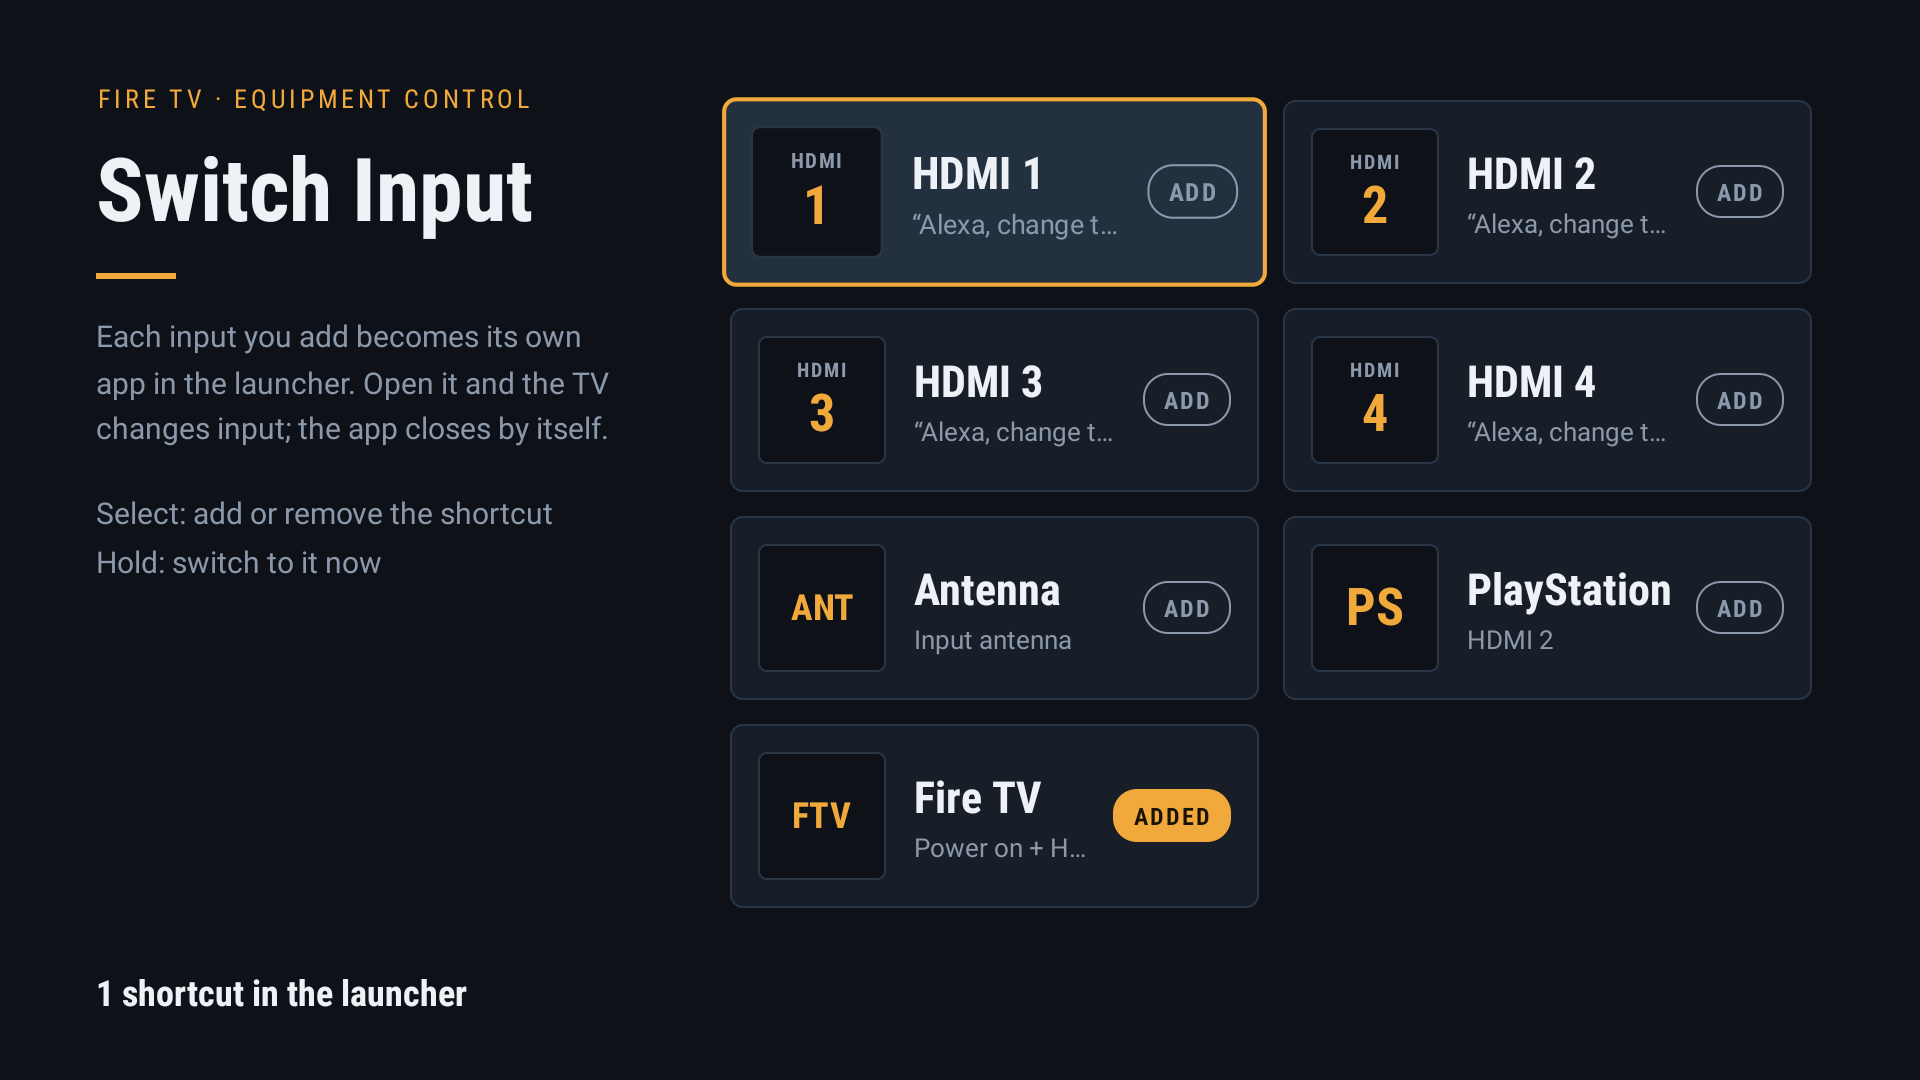
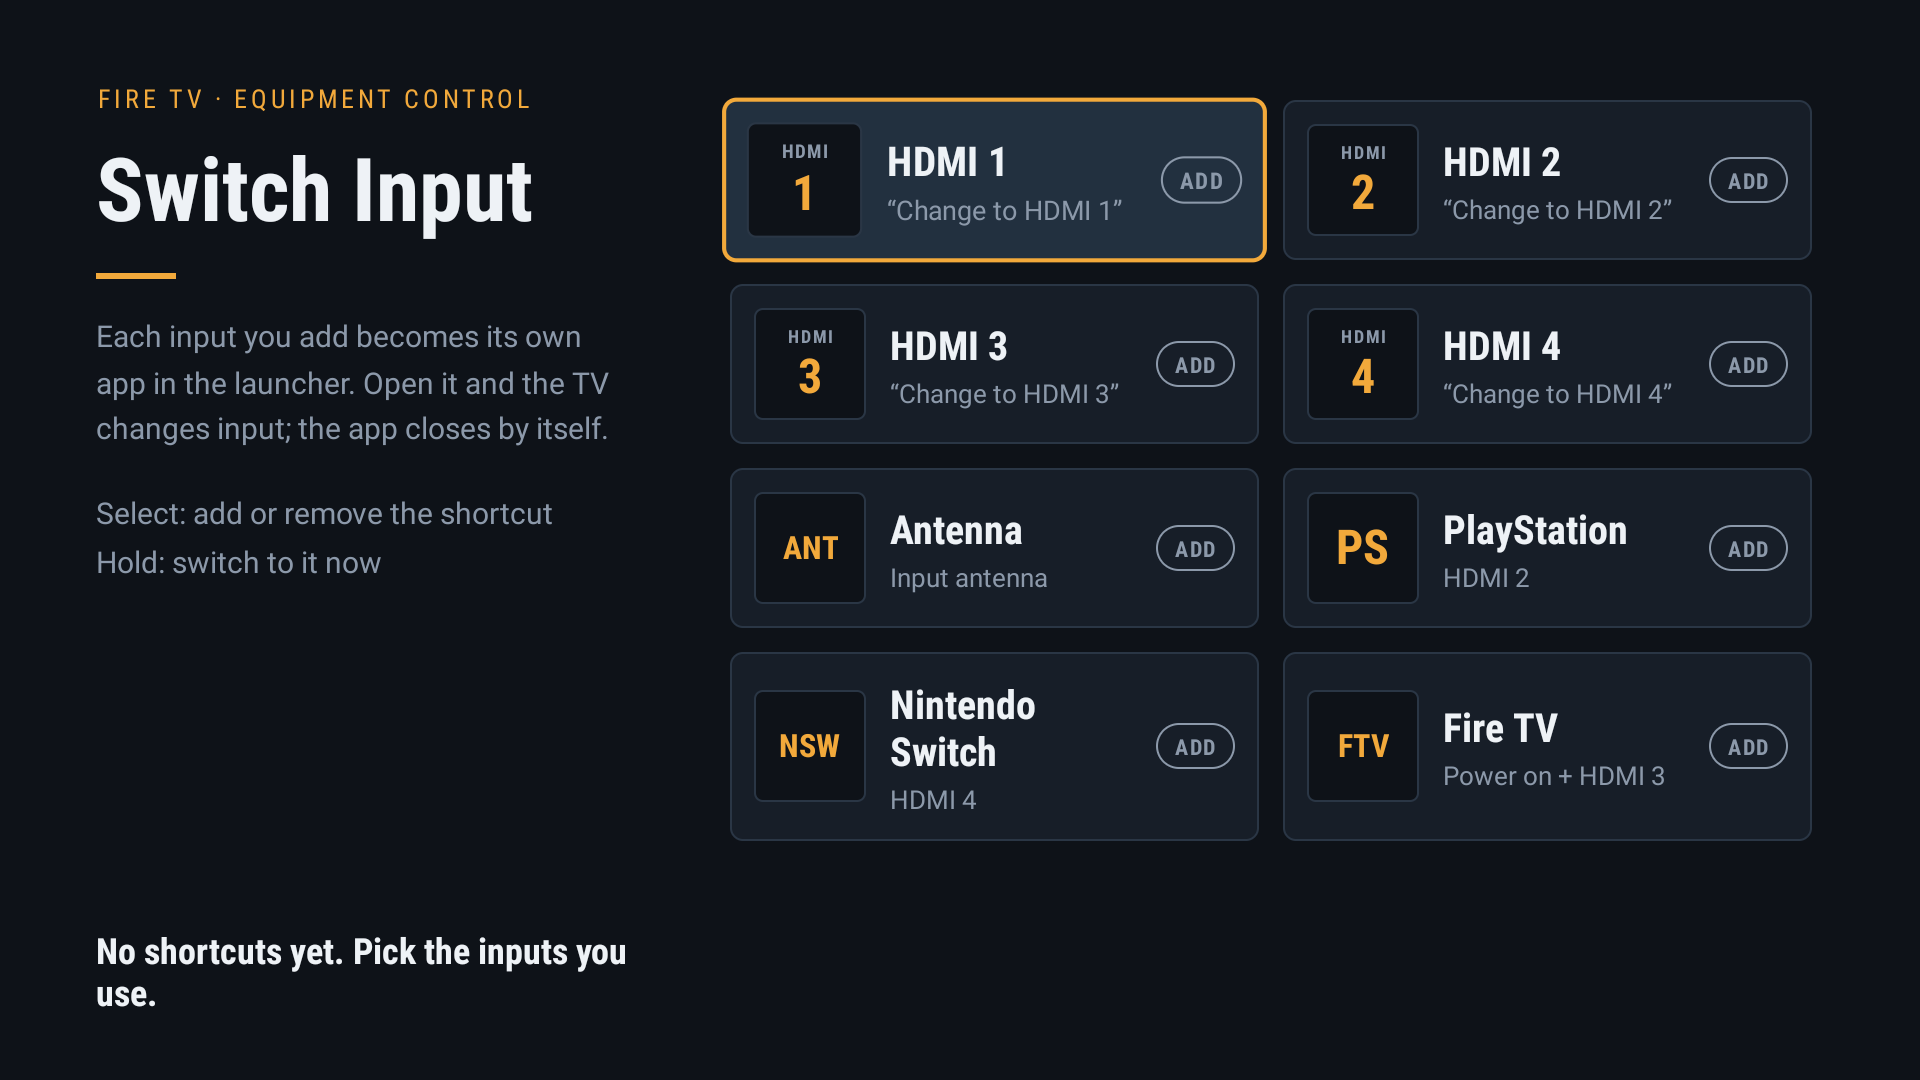
Reload the equipment list on every onStart; roomier card titles
Equipment added in Fire TV Settings while the app sat in the background was
not shown until the process was killed, because the list loaded only in
onCreate. Cards: 2-line 20sp titles, smaller badge and pill so names like
'Nintendo Switch' and the voice phrase fit. The grid is a RecyclerView and
scrolls once there are more cards than fit the screen.

diff --git a/app/src/main/java/pt/aadf/sourcesswitcher/MainActivity.kt b/app/src/main/java/pt/aadf/sourcesswitcher/MainActivity.kt
@@ -26,6 +26,12 @@ class MainActivity : AppCompatActivity() {
         status = findViewById(R.id.status)
         grid = findViewById(R.id.grid)
         grid.layoutManager = GridLayoutManager(this, 2)
+    }
+
+    /** Re-read the equipment list every time the screen comes to the front, so equipment
+     *  added in Fire TV Settings while this app sat in the background shows up at once. */
+    override fun onStart() {
+        super.onStart()
         load()
     }
 
@@ -97,7 +103,7 @@ class MainActivity : AppCompatActivity() {
             h.badgeSmall.text = small
             h.badgeSmall.visibility = if (small.isEmpty()) View.GONE else View.VISIBLE
             h.badge.text = big
-            h.badge.textSize = if (big.length <= 2) 26f else if (big.length <= 4) 18f else 14f
+            h.badge.textSize = if (big.length <= 2) 24f else if (big.length <= 4) 16f else 13f
             h.label.text = row.input.label
             // Second line: what the switch blasts when that adds information (PlayStation -> HDMI 2,
             // Fire TV -> Power on + HDMI 3); otherwise the voice command the shortcut replaces.
